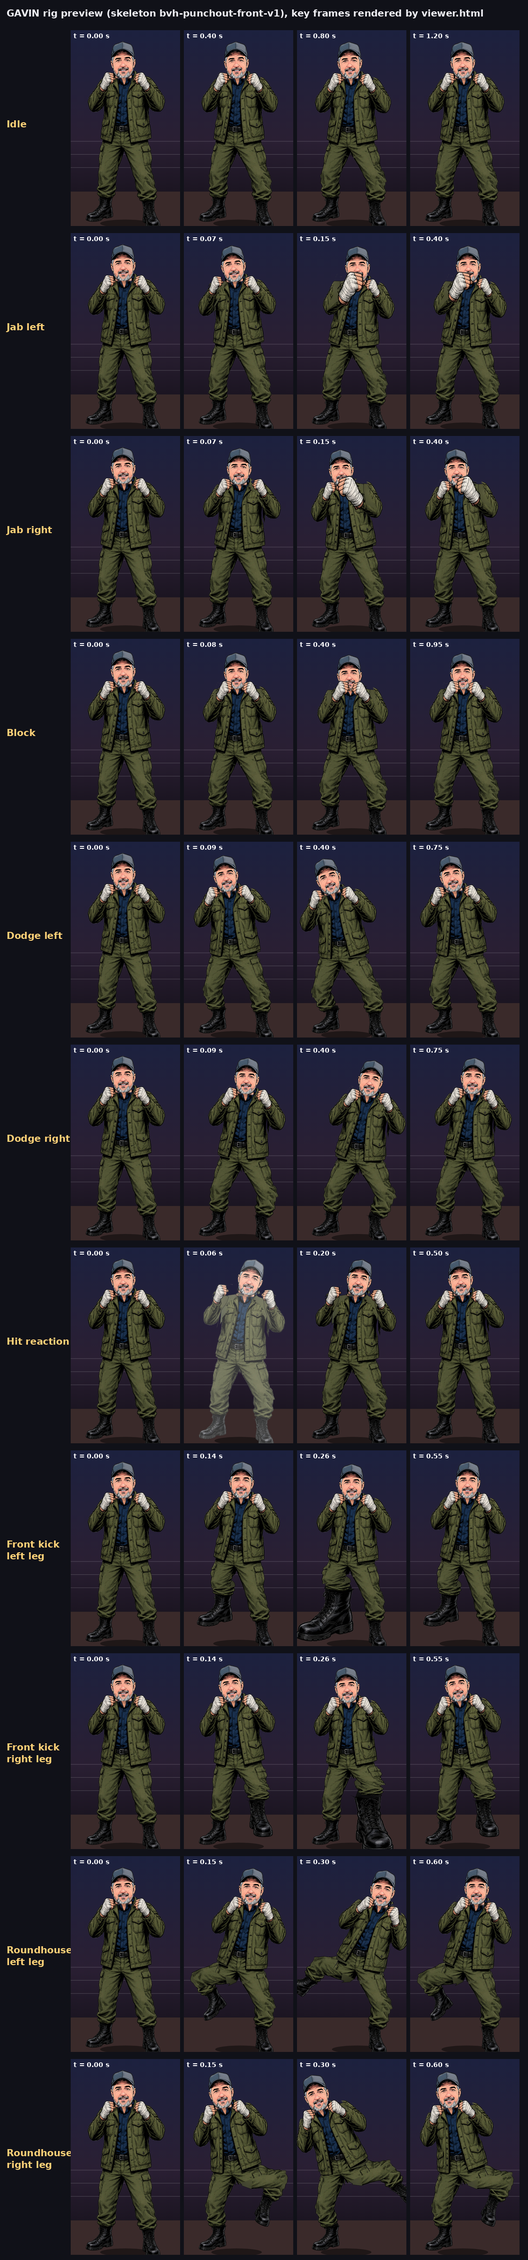
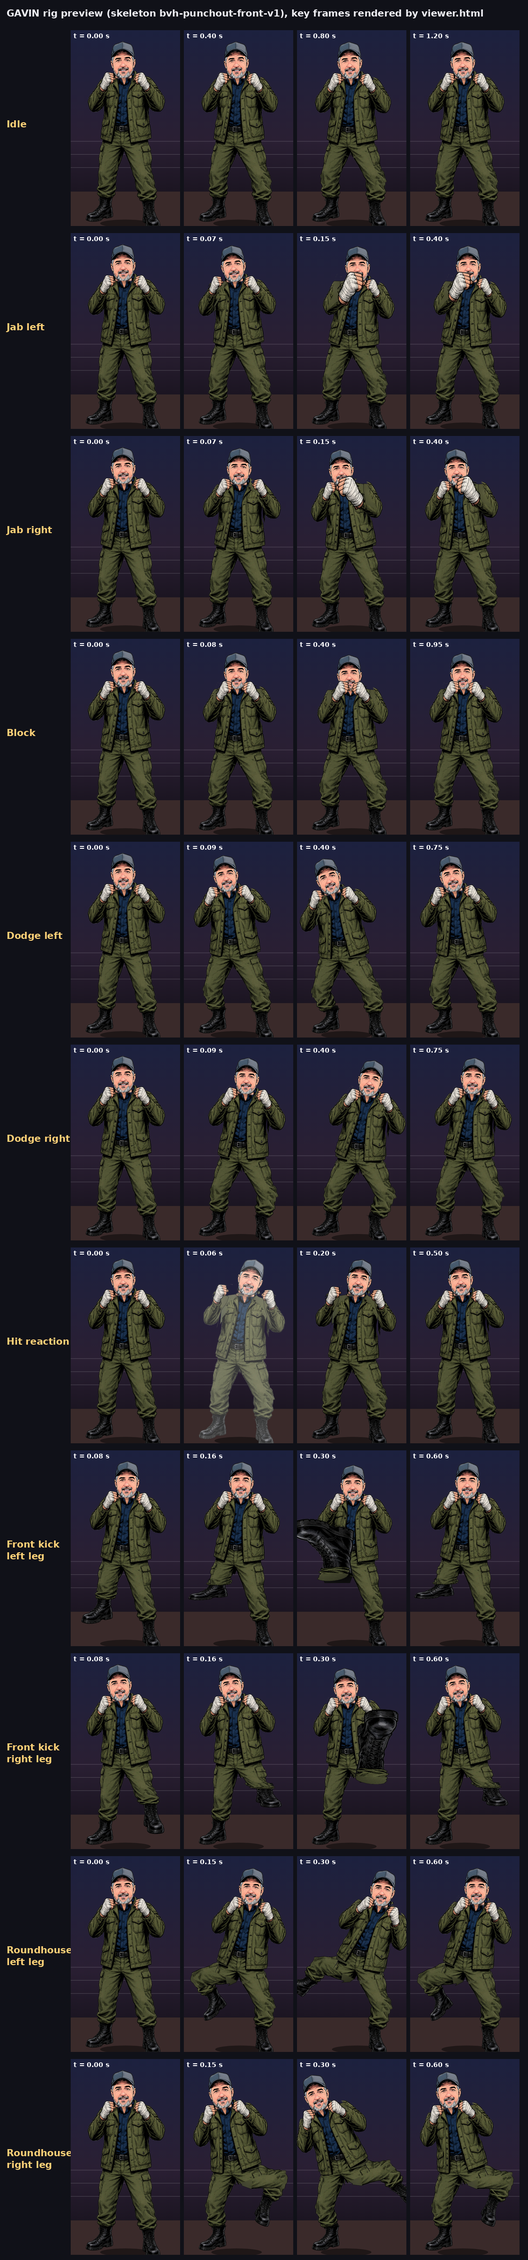
Rig: rework front kick (FK leg, knee lifts, boot rises to chest height toward camera)

diff --git a/fighter-art/rig/viewer.html b/fighter-art/rig/viewer.html
@@ -20,7 +20,7 @@
 </div>
 <!-- skeleton + animations + skins are embedded by tools/build_skin.py so the page also runs from file://.
      When served over http it re-reads skeleton.json / animations.json / <fighter>/skin.json if present. -->
-<script id="embedded" type="application/json">{"skeleton":{"name":"bvh-punchout-front-v1","about":"Generic 2D cut-out skeleton for front-facing (Punch-Out style) fighters. L/R mean SCREEN left/right (L is the fighter's own right hand). Pivots here are reference values in a 534x1265 reference frame (Gavin); each skin.json may override pivots for its own art. Rotations in degrees, positive is clockwise on screen. Bone transform = parent * translate(pivot - parentPivot + anim.xy) * rotate(anim.rot) * scale(anim.sx, anim.sy). Bones with worldRotation ignore their parent's rotation (boots stay flat). Any bone track may carry z (1 to 9): a part with z > 0 is drawn in a raised-leg layer above every other leg part and below the pelvis, ordered by z (front kick uses thigh 3, shin 2, boot 1). This stays correct for mirrored anims. Boot tracks may carry follow (0 to 1): 0 keeps the boot level, 1 turns it with the shin (roundhouse).","refSize":[534,1265],"groundY":1231,"bones":[{"name":"root","parent":null,"pivot":[268,640]},{"name":"pelvis","parent":"root","pivot":[268,640]},{"name":"torso","parent":"pelvis","pivot":[268,610]},{"name":"head","parent":"torso","pivot":[256,252]},{"name":"upperarm_L","parent":"torso","pivot":[118,272]},{"name":"forearm_L","parent":"upperarm_L","pivot":[62,440]},{"name":"fist_L","parent":"forearm_L","pivot":[125,326]},{"name":"upperarm_R","parent":"torso","pivot":[416,272]},{"name":"forearm_R","parent":"upperarm_R","pivot":[486,440]},{"name":"fist_R","parent":"forearm_R","pivot":[408,326]},{"name":"thigh_L","parent":"pelvis","pivot":[185,715]},{"name":"shin_L","parent":"thigh_L","pivot":[140,925]},{"name":"boot_L","parent":"shin_L","pivot":[130,1095],"worldRotation":true},{"name":"thigh_R","parent":"pelvis","pivot":[352,715]},{"name":"shin_R","parent":"thigh_R","pivot":[395,925]},{"name":"boot_R","parent":"shin_R","pivot":[428,1112],"worldRotation":true}],"ikTargets":{"foot_L":[130,1095],"foot_R":[428,1112]},"ik":[{"chain":["thigh_L","shin_L"],"target":"foot_L","end":"boot_L","note":"2-bone IK puts the ankle (boot pivot) on the target; thigh/shin sy tracks foreshorten the leg (lengths scale with them)"},{"chain":["thigh_R","shin_R"],"target":"foot_R","end":"boot_R"}],"drawOrder":["boot_L","boot_R","shin_L","shin_R","thigh_L","thigh_R","pelvis","torso","upperarm_L","upperarm_R","head","forearm_L","forearm_R","fist_L","fist_R"],"slots":{"head":"head incl. hat and beard, cut just under the beard","torso":"jacket and shirt, waist to collar, shoulders filled under the arms","pelvis":"belt to crotch, filled up under the jacket hem","upperarm_L":"shoulder to elbow sleeve","upperarm_R":"shoulder to elbow sleeve","forearm_L":"elbow to wrist sleeve (the forearm+fist limb is two layers so the fist can scale toward the camera on punches)","forearm_R":"elbow to wrist sleeve (the forearm+fist limb is two layers so the fist can scale toward the camera on punches)","thigh_L":"hip to knee","thigh_R":"hip to knee","shin_L":"knee to pant cuff","shin_R":"knee to pant cuff","fist_L":"fist incl. wraps/gloves and wrist, pivot at the wrist","fist_R":"fist incl. wraps/gloves and wrist, pivot at the wrist","boot_L":"boot, pivot at the ankle; worldRotation: stays level on the floor unless its own track rotates it","boot_R":"boot, pivot at the ankle; worldRotation: stays level on the floor unless its own track rotates it"}},"animations":{"about":"Shared keyframe animations for skeleton bvh-punchout-front-v1. Each key: t (s), rot (deg), x, y (reference px), sx, sy; missing values mean rest (0 or 1). Easing is smooth in-out between keys. root may also carry flash (0..1 white hit flash). IK target tracks (foot_L, foot_R) take x/y to slide a planted boot.","idle":{"duration":1.6,"loop":true,"tracks":{"root":[{"t":0},{"t":0.8,"y":7},{"t":1.6}],"torso":[{"t":0},{"t":0.8,"sy":1.012,"rot":0.6},{"t":1.6}],"head":[{"t":0},{"t":0.9,"rot":-1.4,"y":1.5},{"t":1.6}],"upperarm_L":[{"t":0},{"t":0.8,"rot":-1.5},{"t":1.6}],"upperarm_R":[{"t":0},{"t":0.8,"rot":1.5},{"t":1.6}],"forearm_L":[{"t":0},{"t":0.85,"rot":2.2,"y":2},{"t":1.6}],"forearm_R":[{"t":0},{"t":0.75,"rot":-2.2,"y":2},{"t":1.6}]}},"jab_L":{"duration":0.62,"loop":true,"tracks":{"root":[{"t":0},{"t":0.07,"x":-4,"y":3},{"t":0.15,"x":12,"y":6},{"t":0.28,"x":12,"y":6},{"t":0.62}],"torso":[{"t":0},{"t":0.07,"rot":-2},{"t":0.15,"rot":5},{"t":0.28,"rot":5},{"t":0.62}],"head":[{"t":0},{"t":0.15,"rot":-4,"x":10,"y":5},{"t":0.28,"rot":-4,"x":10,"y":5},{"t":0.62}],"upperarm_L":[{"t":0},{"t":0.07,"rot":3},{"t":0.15,"rot":-12},{"t":0.28,"rot":-12},{"t":0.62}],"forearm_L":[{"t":0},{"t":0.07,"rot":-5},{"t":0.15,"rot":34,"sx":0.85,"sy":0.85},{"t":0.28,"rot":34,"sx":0.85,"sy":0.85},{"t":0.62}],"fist_L":[{"t":0},{"t":0.07,"sx":0.95,"sy":0.95},{"t":0.15,"rot":-26,"sx":2.0,"sy":2.0,"x":18,"y":4},{"t":0.28,"rot":-26,"sx":2.0,"sy":2.0,"x":18,"y":4},{"t":0.62}],"upperarm_R":[{"t":0},{"t":0.15,"rot":3},{"t":0.28,"rot":3},{"t":0.62}],"forearm_R":[{"t":0},{"t":0.15,"rot":-4},{"t":0.28,"rot":-4},{"t":0.62}],"fist_R":[{"t":0},{"t":0.15,"sx":0.95,"sy":0.95},{"t":0.28,"sx":0.95,"sy":0.95},{"t":0.62}]}},"jab_R":{"duration":0.62,"loop":true,"mirrorOf":"jab_L"},"block":{"duration":1.1,"loop":true,"tracks":{"root":[{"t":0},{"t":0.15,"y":10},{"t":0.85,"y":10},{"t":1.1}],"torso":[{"t":0},{"t":0.15,"sy":0.985},{"t":0.85,"sy":0.985},{"t":1.1}],"head":[{"t":0},{"t":0.15,"y":12},{"t":0.85,"y":12},{"t":1.1}],"upperarm_L":[{"t":0},{"t":0.15,"rot":-9},{"t":0.85,"rot":-9},{"t":1.1}],"upperarm_R":[{"t":0},{"t":0.15,"rot":9},{"t":0.85,"rot":9},{"t":1.1}],"forearm_L":[{"t":0},{"t":0.15,"rot":13,"sx":1.12,"sy":1.12},{"t":0.5,"rot":12,"sx":1.12,"sy":1.12,"y":2},{"t":0.85,"rot":13,"sx":1.12,"sy":1.12},{"t":1.1}],"forearm_R":[{"t":0},{"t":0.15,"rot":-13,"sx":1.12,"sy":1.12},{"t":0.5,"rot":-12,"sx":1.12,"sy":1.12,"y":2},{"t":0.85,"rot":-13,"sx":1.12,"sy":1.12},{"t":1.1}]}},"dodge_L":{"duration":0.95,"loop":true,"tracks":{"root":[{"t":0},{"t":0.18,"x":-58,"y":22},{"t":0.55,"x":-58,"y":22},{"t":0.95}],"torso":[{"t":0},{"t":0.18,"rot":-9},{"t":0.55,"rot":-9},{"t":0.95}],"head":[{"t":0},{"t":0.2,"rot":-5},{"t":0.55,"rot":-5},{"t":0.95}],"upperarm_L":[{"t":0},{"t":0.18,"rot":4},{"t":0.55,"rot":4},{"t":0.95}],"upperarm_R":[{"t":0},{"t":0.18,"rot":3},{"t":0.55,"rot":3},{"t":0.95}],"forearm_L":[{"t":0},{"t":0.18,"rot":-3},{"t":0.55,"rot":-3},{"t":0.95}],"forearm_R":[{"t":0},{"t":0.18,"rot":-4},{"t":0.55,"rot":-4},{"t":0.95}]}},"dodge_R":{"duration":0.95,"loop":true,"mirrorOf":"dodge_L"},"hit":{"duration":0.85,"loop":true,"tracks":{"root":[{"t":0},{"t":0.06,"x":14,"y":5,"flash":0.22},{"t":0.2,"x":10,"y":6},{"t":0.5,"x":-2},{"t":0.85}],"torso":[{"t":0},{"t":0.06,"rot":6},{"t":0.2,"rot":4},{"t":0.5,"rot":-1},{"t":0.85}],"head":[{"t":0},{"t":0.06,"rot":11,"x":8,"y":-10},{"t":0.2,"rot":8,"x":6,"y":-6},{"t":0.5,"rot":-1.5},{"t":0.85}],"upperarm_L":[{"t":0},{"t":0.06,"rot":9},{"t":0.25,"rot":6},{"t":0.85}],"upperarm_R":[{"t":0},{"t":0.06,"rot":-5},{"t":0.25,"rot":-4},{"t":0.85}],"forearm_L":[{"t":0},{"t":0.06,"rot":-18},{"t":0.25,"rot":-12},{"t":0.55,"rot":2},{"t":0.85}],"forearm_R":[{"t":0},{"t":0.06,"rot":14},{"t":0.25,"rot":10},{"t":0.55,"rot":-2},{"t":0.85}]}},"kick_front_L":{"duration":0.85,"loop":true,"tracks":{"root":[{"t":0},{"t":0.14,"y":-4},{"t":0.26,"y":-2,"x":4},{"t":0.38,"y":-2,"x":4},{"t":0.55,"y":-4},{"t":0.85}],"pelvis":[{"t":0},{"t":0.14,"rot":3},{"t":0.26,"rot":4},{"t":0.38,"rot":4},{"t":0.55,"rot":3},{"t":0.85}],"torso":[{"t":0},{"t":0.14,"rot":1},{"t":0.26,"rot":-3,"sy":0.98},{"t":0.38,"rot":-3,"sy":0.98},{"t":0.55,"rot":1},{"t":0.85}],"head":[{"t":0},{"t":0.26,"y":5,"rot":1},{"t":0.38,"y":5,"rot":1},{"t":0.85}],"upperarm_L":[{"t":0},{"t":0.26,"rot":-3},{"t":0.38,"rot":-3},{"t":0.85}],"upperarm_R":[{"t":0},{"t":0.26,"rot":3},{"t":0.38,"rot":3},{"t":0.85}],"forearm_L":[{"t":0},{"t":0.26,"rot":3},{"t":0.38,"rot":3},{"t":0.85}],"forearm_R":[{"t":0},{"t":0.26,"rot":-3},{"t":0.38,"rot":-3},{"t":0.85}],"thigh_L":[{"t":0},{"t":0.06,"z":3},{"t":0.14,"sy":0.55,"z":3,"sx":1.1},{"t":0.26,"sy":0.42,"z":3,"sx":1.25},{"t":0.38,"sy":0.42,"z":3,"sx":1.25},{"t":0.55,"sy":0.55,"z":3,"sx":1.1},{"t":0.78,"z":3},{"t":0.85}],"shin_L":[{"t":0},{"t":0.06,"z":2},{"t":0.14,"sy":0.6,"sx":1.15,"z":2},{"t":0.26,"sy":0.55,"sx":1.3,"z":2},{"t":0.38,"sy":0.55,"sx":1.3,"z":2},{"t":0.55,"sy":0.6,"sx":1.15,"z":2},{"t":0.78,"z":2},{"t":0.85}],"boot_L":[{"t":0},{"t":0.06,"z":1},{"t":0.14,"sx":1.3,"sy":1.3,"y":30,"z":1},{"t":0.26,"sx":2.1,"sy":2.1,"y":70,"z":1},{"t":0.38,"sx":2.1,"sy":2.1,"y":70,"z":1},{"t":0.55,"sx":1.3,"sy":1.3,"y":30,"z":1},{"t":0.78,"z":1},{"t":0.85}],"foot_L":[{"t":0},{"t":0.14,"x":26,"y":-168},{"t":0.26,"x":34,"y":-200},{"t":0.38,"x":34,"y":-200},{"t":0.55,"x":26,"y":-168},{"t":0.85}]}},"kick_front_R":{"duration":0.85,"loop":true,"mirrorOf":"kick_front_L"},"kick_round_L":{"duration":0.95,"loop":true,"tracks":{"root":[{"t":0},{"t":0.15,"x":22},{"t":0.3,"x":62,"y":-6},{"t":0.45,"x":62,"y":-6},{"t":0.6,"x":22},{"t":0.95}],"pelvis":[{"t":0},{"t":0.15,"rot":6},{"t":0.3,"rot":12},{"t":0.45,"rot":12},{"t":0.6,"rot":6},{"t":0.95}],"torso":[{"t":0},{"t":0.15,"rot":4},{"t":0.3,"rot":9},{"t":0.45,"rot":9},{"t":0.6,"rot":4},{"t":0.95}],"head":[{"t":0},{"t":0.15,"rot":-3},{"t":0.3,"rot":-8},{"t":0.45,"rot":-8},{"t":0.95}],"upperarm_L":[{"t":0},{"t":0.3,"rot":-6},{"t":0.45,"rot":-6},{"t":0.95}],"upperarm_R":[{"t":0},{"t":0.3,"rot":4},{"t":0.45,"rot":4},{"t":0.95}],"forearm_L":[{"t":0},{"t":0.3,"rot":6},{"t":0.45,"rot":6},{"t":0.95}],"forearm_R":[{"t":0},{"t":0.3,"rot":-4},{"t":0.45,"rot":-4},{"t":0.95}],"boot_L":[{"t":0},{"t":0.15,"rot":10,"follow":1},{"t":0.3,"rot":15,"follow":1},{"t":0.45,"rot":15,"follow":1},{"t":0.6,"rot":10,"follow":1},{"t":0.95}],"foot_L":[{"t":0},{"t":0.15,"x":-30,"y":-220},{"t":0.3,"x":-165,"y":-318},{"t":0.45,"x":-165,"y":-318},{"t":0.6,"x":-30,"y":-220},{"t":0.95}],"thigh_L":[{"t":0},{"t":0.15,"sy":0.92},{"t":0.3,"sy":0.86},{"t":0.45,"sy":0.86},{"t":0.6,"sy":0.92},{"t":0.95}],"shin_L":[{"t":0},{"t":0.3,"sy":0.84},{"t":0.45,"sy":0.84},{"t":0.95}]}},"kick_round_R":{"duration":0.95,"loop":true,"mirrorOf":"kick_round_L"}},"skins":{"gavin":{"fighter":"gavin","skeleton":"bvh-punchout-front-v1","about":"Per-fighter skin. parts: image per bone, x/y = image top-left relative to the bone pivot (art px). pivots/ikTargets override the skeleton reference values for this art. scale = on-screen size multiplier vs the 662 px human reference (Tank would be about 1.17).","artSize":[534,1265],"scale":1.0,"groundY":1231,"pivots":{"root":[268,640],"pelvis":[268,640],"torso":[268,610],"head":[256,252],"upperarm_L":[118,272],"forearm_L":[62,440],"fist_L":[125,326],"upperarm_R":[416,272],"forearm_R":[486,440],"fist_R":[408,326],"thigh_L":[185,715],"shin_L":[140,925],"boot_L":[130,1095],"thigh_R":[352,715],"shin_R":[395,925],"boot_R":[428,1112]},"ikTargets":{"foot_L":[130,1095],"foot_R":[428,1112]},"parts":{"fist_L":{"image":"parts/fist_L.png","x":-34,"y":-122,"w":111,"h":137},"fist_R":{"image":"parts/fist_R.png","x":-87,"y":-122,"w":112,"h":137},"forearm_L":{"image":"parts/forearm_L.png","x":-28,"y":-146,"w":119,"h":179},"forearm_R":{"image":"parts/forearm_R.png","x":-112,"y":-146,"w":134,"h":179},"head":{"image":"parts/head.png","x":-124,"y":-252,"w":218,"h":259},"upperarm_L":{"image":"parts/upperarm_L.png","x":-105,"y":-66,"w":140,"h":273},"upperarm_R":{"image":"parts/upperarm_R.png","x":-33,"y":-65,"w":151,"h":296},"torso":{"image":"parts/torso.png","x":-169,"y":-404,"w":345,"h":483},"pelvis":{"image":"parts/pelvis.png","x":-173,"y":-81,"w":348,"h":214},"thigh_L":{"image":"parts/thigh_L.png","x":-103,"y":-87,"w":189,"h":345},"thigh_R":{"image":"parts/thigh_R.png","x":-85,"y":-87,"w":201,"h":347},"shin_L":{"image":"parts/shin_L.png","x":-68,"y":-68,"w":137,"h":202},"shin_R":{"image":"parts/shin_R.png","x":-70,"y":-72,"w":157,"h":234},"boot_L":{"image":"parts/boot_L.png","x":-130,"y":-70,"w":189,"h":190},"boot_R":{"image":"parts/boot_R.png","x":-66,"y":-63,"w":142,"h":216}}}}}</script>
+<script id="embedded" type="application/json">{"skeleton":{"name":"bvh-punchout-front-v1","about":"Generic 2D cut-out skeleton for front-facing (Punch-Out style) fighters. L/R mean SCREEN left/right (L is the fighter's own right hand). Pivots here are reference values in a 534x1265 reference frame (Gavin); each skin.json may override pivots for its own art. Rotations in degrees, positive is clockwise on screen. Bone transform = parent * translate(pivot - parentPivot + anim.xy) * rotate(anim.rot) * scale(anim.sx, anim.sy). Bones with worldRotation ignore their parent's rotation (boots stay flat). Any bone track may carry z (1 to 9): a part with z > 0 is drawn in a raised-leg layer above every other leg part and below the pelvis, ordered by z (front kick uses thigh 3, shin 2, boot 1). This stays correct for mirrored anims. Boot tracks may carry follow (0 to 1): 0 keeps the boot level, 1 turns it with the shin (roundhouse). z of 10 or more draws the part in front of the whole fighter (front kick shin and boot at the peak). A foot track with fk 1 switches that leg from IK to plain FK (front kick: thigh and shin sy foreshorten, a negative shin sy points the shin up at the camera).","refSize":[534,1265],"groundY":1231,"bones":[{"name":"root","parent":null,"pivot":[268,640]},{"name":"pelvis","parent":"root","pivot":[268,640]},{"name":"torso","parent":"pelvis","pivot":[268,610]},{"name":"head","parent":"torso","pivot":[256,252]},{"name":"upperarm_L","parent":"torso","pivot":[118,272]},{"name":"forearm_L","parent":"upperarm_L","pivot":[62,440]},{"name":"fist_L","parent":"forearm_L","pivot":[125,326]},{"name":"upperarm_R","parent":"torso","pivot":[416,272]},{"name":"forearm_R","parent":"upperarm_R","pivot":[486,440]},{"name":"fist_R","parent":"forearm_R","pivot":[408,326]},{"name":"thigh_L","parent":"pelvis","pivot":[185,715]},{"name":"shin_L","parent":"thigh_L","pivot":[140,925]},{"name":"boot_L","parent":"shin_L","pivot":[130,1095],"worldRotation":true},{"name":"thigh_R","parent":"pelvis","pivot":[352,715]},{"name":"shin_R","parent":"thigh_R","pivot":[395,925]},{"name":"boot_R","parent":"shin_R","pivot":[428,1112],"worldRotation":true}],"ikTargets":{"foot_L":[130,1095],"foot_R":[428,1112]},"ik":[{"chain":["thigh_L","shin_L"],"target":"foot_L","end":"boot_L","note":"2-bone IK puts the ankle (boot pivot) on the target; thigh/shin sy tracks foreshorten the leg (lengths scale with them)"},{"chain":["thigh_R","shin_R"],"target":"foot_R","end":"boot_R"}],"drawOrder":["boot_L","boot_R","shin_L","shin_R","thigh_L","thigh_R","pelvis","torso","upperarm_L","upperarm_R","head","forearm_L","forearm_R","fist_L","fist_R"],"slots":{"head":"head incl. hat and beard, cut just under the beard","torso":"jacket and shirt, waist to collar, shoulders filled under the arms","pelvis":"belt to crotch, filled up under the jacket hem","upperarm_L":"shoulder to elbow sleeve","upperarm_R":"shoulder to elbow sleeve","forearm_L":"elbow to wrist sleeve (the forearm+fist limb is two layers so the fist can scale toward the camera on punches)","forearm_R":"elbow to wrist sleeve (the forearm+fist limb is two layers so the fist can scale toward the camera on punches)","thigh_L":"hip to knee","thigh_R":"hip to knee","shin_L":"knee to pant cuff","shin_R":"knee to pant cuff","fist_L":"fist incl. wraps/gloves and wrist, pivot at the wrist","fist_R":"fist incl. wraps/gloves and wrist, pivot at the wrist","boot_L":"boot, pivot at the ankle; worldRotation: stays level on the floor unless its own track rotates it","boot_R":"boot, pivot at the ankle; worldRotation: stays level on the floor unless its own track rotates it"}},"animations":{"about":"Shared keyframe animations for skeleton bvh-punchout-front-v1. Each key: t (s), rot (deg), x, y (reference px), sx, sy; missing values mean rest (0 or 1). Easing is smooth in-out between keys. root may also carry flash (0..1 white hit flash). IK target tracks (foot_L, foot_R) take x/y to slide a planted boot.","idle":{"duration":1.6,"loop":true,"tracks":{"root":[{"t":0},{"t":0.8,"y":7},{"t":1.6}],"torso":[{"t":0},{"t":0.8,"sy":1.012,"rot":0.6},{"t":1.6}],"head":[{"t":0},{"t":0.9,"rot":-1.4,"y":1.5},{"t":1.6}],"upperarm_L":[{"t":0},{"t":0.8,"rot":-1.5},{"t":1.6}],"upperarm_R":[{"t":0},{"t":0.8,"rot":1.5},{"t":1.6}],"forearm_L":[{"t":0},{"t":0.85,"rot":2.2,"y":2},{"t":1.6}],"forearm_R":[{"t":0},{"t":0.75,"rot":-2.2,"y":2},{"t":1.6}]}},"jab_L":{"duration":0.62,"loop":true,"tracks":{"root":[{"t":0},{"t":0.07,"x":-4,"y":3},{"t":0.15,"x":12,"y":6},{"t":0.28,"x":12,"y":6},{"t":0.62}],"torso":[{"t":0},{"t":0.07,"rot":-2},{"t":0.15,"rot":5},{"t":0.28,"rot":5},{"t":0.62}],"head":[{"t":0},{"t":0.15,"rot":-4,"x":10,"y":5},{"t":0.28,"rot":-4,"x":10,"y":5},{"t":0.62}],"upperarm_L":[{"t":0},{"t":0.07,"rot":3},{"t":0.15,"rot":-12},{"t":0.28,"rot":-12},{"t":0.62}],"forearm_L":[{"t":0},{"t":0.07,"rot":-5},{"t":0.15,"rot":34,"sx":0.85,"sy":0.85},{"t":0.28,"rot":34,"sx":0.85,"sy":0.85},{"t":0.62}],"fist_L":[{"t":0},{"t":0.07,"sx":0.95,"sy":0.95},{"t":0.15,"rot":-26,"sx":2.0,"sy":2.0,"x":18,"y":4},{"t":0.28,"rot":-26,"sx":2.0,"sy":2.0,"x":18,"y":4},{"t":0.62}],"upperarm_R":[{"t":0},{"t":0.15,"rot":3},{"t":0.28,"rot":3},{"t":0.62}],"forearm_R":[{"t":0},{"t":0.15,"rot":-4},{"t":0.28,"rot":-4},{"t":0.62}],"fist_R":[{"t":0},{"t":0.15,"sx":0.95,"sy":0.95},{"t":0.28,"sx":0.95,"sy":0.95},{"t":0.62}]}},"jab_R":{"duration":0.62,"loop":true,"mirrorOf":"jab_L"},"block":{"duration":1.1,"loop":true,"tracks":{"root":[{"t":0},{"t":0.15,"y":10},{"t":0.85,"y":10},{"t":1.1}],"torso":[{"t":0},{"t":0.15,"sy":0.985},{"t":0.85,"sy":0.985},{"t":1.1}],"head":[{"t":0},{"t":0.15,"y":12},{"t":0.85,"y":12},{"t":1.1}],"upperarm_L":[{"t":0},{"t":0.15,"rot":-9},{"t":0.85,"rot":-9},{"t":1.1}],"upperarm_R":[{"t":0},{"t":0.15,"rot":9},{"t":0.85,"rot":9},{"t":1.1}],"forearm_L":[{"t":0},{"t":0.15,"rot":13,"sx":1.12,"sy":1.12},{"t":0.5,"rot":12,"sx":1.12,"sy":1.12,"y":2},{"t":0.85,"rot":13,"sx":1.12,"sy":1.12},{"t":1.1}],"forearm_R":[{"t":0},{"t":0.15,"rot":-13,"sx":1.12,"sy":1.12},{"t":0.5,"rot":-12,"sx":1.12,"sy":1.12,"y":2},{"t":0.85,"rot":-13,"sx":1.12,"sy":1.12},{"t":1.1}]}},"dodge_L":{"duration":0.95,"loop":true,"tracks":{"root":[{"t":0},{"t":0.18,"x":-58,"y":22},{"t":0.55,"x":-58,"y":22},{"t":0.95}],"torso":[{"t":0},{"t":0.18,"rot":-9},{"t":0.55,"rot":-9},{"t":0.95}],"head":[{"t":0},{"t":0.2,"rot":-5},{"t":0.55,"rot":-5},{"t":0.95}],"upperarm_L":[{"t":0},{"t":0.18,"rot":4},{"t":0.55,"rot":4},{"t":0.95}],"upperarm_R":[{"t":0},{"t":0.18,"rot":3},{"t":0.55,"rot":3},{"t":0.95}],"forearm_L":[{"t":0},{"t":0.18,"rot":-3},{"t":0.55,"rot":-3},{"t":0.95}],"forearm_R":[{"t":0},{"t":0.18,"rot":-4},{"t":0.55,"rot":-4},{"t":0.95}]}},"dodge_R":{"duration":0.95,"loop":true,"mirrorOf":"dodge_L"},"hit":{"duration":0.85,"loop":true,"tracks":{"root":[{"t":0},{"t":0.06,"x":14,"y":5,"flash":0.22},{"t":0.2,"x":10,"y":6},{"t":0.5,"x":-2},{"t":0.85}],"torso":[{"t":0},{"t":0.06,"rot":6},{"t":0.2,"rot":4},{"t":0.5,"rot":-1},{"t":0.85}],"head":[{"t":0},{"t":0.06,"rot":11,"x":8,"y":-10},{"t":0.2,"rot":8,"x":6,"y":-6},{"t":0.5,"rot":-1.5},{"t":0.85}],"upperarm_L":[{"t":0},{"t":0.06,"rot":9},{"t":0.25,"rot":6},{"t":0.85}],"upperarm_R":[{"t":0},{"t":0.06,"rot":-5},{"t":0.25,"rot":-4},{"t":0.85}],"forearm_L":[{"t":0},{"t":0.06,"rot":-18},{"t":0.25,"rot":-12},{"t":0.55,"rot":2},{"t":0.85}],"forearm_R":[{"t":0},{"t":0.06,"rot":14},{"t":0.25,"rot":10},{"t":0.55,"rot":-2},{"t":0.85}]}},"kick_front_L":{"duration":0.85,"loop":true,"tracks":{"root":[{"t":0},{"t":0.12,"y":-6},{"t":0.3,"y":-4,"x":4},{"t":0.42,"y":-4,"x":4},{"t":0.66,"y":-6},{"t":0.85}],"pelvis":[{"t":0},{"t":0.12,"rot":3},{"t":0.3,"rot":4},{"t":0.42,"rot":4},{"t":0.66,"rot":3},{"t":0.85}],"torso":[{"t":0},{"t":0.12,"rot":1},{"t":0.3,"rot":-2,"sy":0.97},{"t":0.42,"rot":-2,"sy":0.97},{"t":0.66,"rot":1},{"t":0.85}],"head":[{"t":0},{"t":0.3,"y":8,"rot":1},{"t":0.42,"y":8,"rot":1},{"t":0.85}],"upperarm_L":[{"t":0},{"t":0.3,"rot":-3},{"t":0.42,"rot":-3},{"t":0.85}],"upperarm_R":[{"t":0},{"t":0.3,"rot":3},{"t":0.42,"rot":3},{"t":0.85}],"forearm_L":[{"t":0},{"t":0.3,"rot":3},{"t":0.42,"rot":3},{"t":0.85}],"forearm_R":[{"t":0},{"t":0.3,"rot":-3},{"t":0.42,"rot":-3},{"t":0.85}],"foot_L":[{"t":0,"fk":1},{"t":0.85,"fk":1}],"thigh_L":[{"t":0},{"t":0.12,"rot":-6,"sy":0.55,"sx":1.08,"z":3},{"t":0.2,"rot":-8,"sy":0.36,"sx":1.15,"z":3},{"t":0.3,"rot":-8,"sy":0.3,"sx":1.2,"z":3},{"t":0.42,"rot":-8,"sy":0.3,"sx":1.2,"z":3},{"t":0.55,"rot":-8,"sy":0.36,"sx":1.15,"z":3},{"t":0.66,"rot":-6,"sy":0.55,"sx":1.08,"z":3},{"t":0.85}],"shin_L":[{"t":0},{"t":0.12,"rot":6,"sy":0.92,"sx":1.1,"z":2},{"t":0.19,"rot":8,"sy":0.2,"sx":1.24,"z":2},{"t":0.2,"rot":8,"sy":0.12,"sx":1.25,"z":13},{"t":0.3,"rot":8,"sy":-1.6,"sx":1.35,"z":13},{"t":0.42,"rot":8,"sy":-1.6,"sx":1.35,"z":13},{"t":0.55,"rot":8,"sy":0.12,"sx":1.25,"z":13},{"t":0.56,"rot":8,"sy":0.2,"sx":1.24,"z":2},{"t":0.66,"rot":6,"sy":0.92,"sx":1.1,"z":2},{"t":0.85}],"boot_L":[{"t":0},{"t":0.12,"sx":1.2,"sy":1.2,"z":1},{"t":0.19,"sx":1.6,"sy":0.5,"z":1},{"t":0.2,"sx":1.65,"sy":0.4,"z":12},{"t":0.3,"sx":2.3,"sy":-2.3,"y":-30,"z":12},{"t":0.42,"sx":2.3,"sy":-2.3,"y":-30,"z":12},{"t":0.55,"sx":1.65,"sy":0.4,"z":12},{"t":0.56,"sx":1.6,"sy":0.5,"z":1},{"t":0.66,"sx":1.2,"sy":1.2,"z":1},{"t":0.85}]}},"kick_front_R":{"duration":0.85,"loop":true,"mirrorOf":"kick_front_L"},"kick_round_L":{"duration":0.95,"loop":true,"tracks":{"root":[{"t":0},{"t":0.15,"x":22},{"t":0.3,"x":62,"y":-6},{"t":0.45,"x":62,"y":-6},{"t":0.6,"x":22},{"t":0.95}],"pelvis":[{"t":0},{"t":0.15,"rot":6},{"t":0.3,"rot":12},{"t":0.45,"rot":12},{"t":0.6,"rot":6},{"t":0.95}],"torso":[{"t":0},{"t":0.15,"rot":4},{"t":0.3,"rot":9},{"t":0.45,"rot":9},{"t":0.6,"rot":4},{"t":0.95}],"head":[{"t":0},{"t":0.15,"rot":-3},{"t":0.3,"rot":-8},{"t":0.45,"rot":-8},{"t":0.95}],"upperarm_L":[{"t":0},{"t":0.3,"rot":-6},{"t":0.45,"rot":-6},{"t":0.95}],"upperarm_R":[{"t":0},{"t":0.3,"rot":4},{"t":0.45,"rot":4},{"t":0.95}],"forearm_L":[{"t":0},{"t":0.3,"rot":6},{"t":0.45,"rot":6},{"t":0.95}],"forearm_R":[{"t":0},{"t":0.3,"rot":-4},{"t":0.45,"rot":-4},{"t":0.95}],"boot_L":[{"t":0},{"t":0.15,"rot":10,"follow":1},{"t":0.3,"rot":15,"follow":1},{"t":0.45,"rot":15,"follow":1},{"t":0.6,"rot":10,"follow":1},{"t":0.95}],"foot_L":[{"t":0},{"t":0.15,"x":-30,"y":-220},{"t":0.3,"x":-165,"y":-318},{"t":0.45,"x":-165,"y":-318},{"t":0.6,"x":-30,"y":-220},{"t":0.95}],"thigh_L":[{"t":0},{"t":0.15,"sy":0.92},{"t":0.3,"sy":0.86},{"t":0.45,"sy":0.86},{"t":0.6,"sy":0.92},{"t":0.95}],"shin_L":[{"t":0},{"t":0.3,"sy":0.84},{"t":0.45,"sy":0.84},{"t":0.95}]}},"kick_round_R":{"duration":0.95,"loop":true,"mirrorOf":"kick_round_L"}},"skins":{"gavin":{"fighter":"gavin","skeleton":"bvh-punchout-front-v1","about":"Per-fighter skin. parts: image per bone, x/y = image top-left relative to the bone pivot (art px). pivots/ikTargets override the skeleton reference values for this art. scale = on-screen size multiplier vs the 662 px human reference (Tank would be about 1.17).","artSize":[534,1265],"scale":1.0,"groundY":1231,"pivots":{"root":[268,640],"pelvis":[268,640],"torso":[268,610],"head":[256,252],"upperarm_L":[118,272],"forearm_L":[62,440],"fist_L":[125,326],"upperarm_R":[416,272],"forearm_R":[486,440],"fist_R":[408,326],"thigh_L":[185,715],"shin_L":[140,925],"boot_L":[130,1095],"thigh_R":[352,715],"shin_R":[395,925],"boot_R":[428,1112]},"ikTargets":{"foot_L":[130,1095],"foot_R":[428,1112]},"parts":{"fist_L":{"image":"parts/fist_L.png","x":-34,"y":-122,"w":111,"h":137},"fist_R":{"image":"parts/fist_R.png","x":-87,"y":-122,"w":112,"h":137},"forearm_L":{"image":"parts/forearm_L.png","x":-28,"y":-146,"w":119,"h":179},"forearm_R":{"image":"parts/forearm_R.png","x":-112,"y":-146,"w":134,"h":179},"head":{"image":"parts/head.png","x":-124,"y":-252,"w":218,"h":259},"upperarm_L":{"image":"parts/upperarm_L.png","x":-105,"y":-66,"w":140,"h":273},"upperarm_R":{"image":"parts/upperarm_R.png","x":-33,"y":-65,"w":151,"h":296},"torso":{"image":"parts/torso.png","x":-169,"y":-404,"w":345,"h":483},"pelvis":{"image":"parts/pelvis.png","x":-173,"y":-81,"w":348,"h":214},"thigh_L":{"image":"parts/thigh_L.png","x":-103,"y":-87,"w":189,"h":345},"thigh_R":{"image":"parts/thigh_R.png","x":-85,"y":-87,"w":201,"h":347},"shin_L":{"image":"parts/shin_L.png","x":-68,"y":-68,"w":137,"h":202},"shin_R":{"image":"parts/shin_R.png","x":-70,"y":-72,"w":157,"h":234},"boot_L":{"image":"parts/boot_L.png","x":-130,"y":-70,"w":189,"h":190},"boot_R":{"image":"parts/boot_R.png","x":-66,"y":-63,"w":142,"h":216}}}}}</script>
 <script>
 'use strict';
 const EMB = JSON.parse(document.getElementById('embedded').textContent || '{}');
@@ -56,7 +56,7 @@ function prepAnims(A) {
   for (const [n, a] of Object.entries(A)) if (a && a.mirrorOf) out[n] = {...mirrorAnim(out[a.mirrorOf]), duration: a.duration, loop: a.loop};
   return out;
 }
-const DEF = {rot: 0, x: 0, y: 0, sx: 1, sy: 1, flash: 0, z: 0, follow: 0};
+const DEF = {rot: 0, x: 0, y: 0, sx: 1, sy: 1, flash: 0, z: 0, follow: 0, fk: 0};
 function sample(keys, t) {
   const o = {...DEF};
   if (!keys || !keys.length) return o;
@@ -87,6 +87,11 @@ function pose(animName, t) {
     const Hw = ap(par, hip[0] - pv[0], hip[1] - pv[1]);
     const L1 = Math.hypot(knee[0] - hip[0], knee[1] - hip[1]) * cu.sy, L2 = Math.hypot(tgt[0] - knee[0], tgt[1] - knee[1]) * cl.sy;
     const tk = sample(A.tracks[ik.target], tt), tg = [tgt[0] + tk.x, tgt[1] + tk.y];
+    if (tk.fk > 0.5) {  // fk 1 on a foot track: leg follows its thigh/shin tracks (no IK), boot sits at the shin's ankle point
+      const Fa = ap(W[lb], tgt[0] - knee[0], tgt[1] - knee[1]);
+      if (ik.end) { const ce = ch[ik.end]; W[ik.end] = mul(mul(T(Fa[0] + ce.x, Fa[1] + ce.y), R(ce.rot * D2R)), S(ce.sx, ce.sy)); }
+      continue;
+    }
     let dx = tg[0] - Hw[0], dy = tg[1] - Hw[1], d = Math.hypot(dx, dy);
     d = Math.min(Math.max(d, Math.abs(L1 - L2) + 1e-3), L1 + L2 - 1e-3);
     const base = Math.atan2(dy, dx), a = Math.acos((L1 * L1 + d * d - L2 * L2) / (2 * L1 * d));
@@ -128,7 +133,7 @@ function globalM() {
 function render(animName, t) {
   const {W, flash, Z} = pose(animName, t), G = globalM();
   const PELV = SK.drawOrder.indexOf('pelvis');  // z > 0: part joins the raised-leg layer just under the pelvis, ordered by z
-  const order = SK.drawOrder.map((n, i) => [n, Z[n] > 0.05 ? PELV - 1 + Z[n] / 10 : i]).sort((p, q) => p[1] - q[1]).map(p => p[0]);
+  const order = SK.drawOrder.map((n, i) => [n, Z[n] >= 10 ? 100 + Z[n] : Z[n] > 0.05 ? PELV - 1 + Z[n] / 10 : i]).sort((p, q) => p[1] - q[1]).map(p => p[0]);
   drawBG(ctx);
   // floor shadow
   const sh = ap(G, SKIN.artSize[0] / 2 + (W.root[4] - SKIN.pivots.root[0]) * 0.6, SKIN.groundY);

diff --git a/fighter-art/rig/tools/make_preview.py b/fighter-art/rig/tools/make_preview.py
@@ -8,7 +8,7 @@ KEYS = [('idle', 'Idle', [0, 0.4, 0.8, 1.2]), ('jab_L', 'Jab left', [0, 0.07, 0.
         ('jab_R', 'Jab right', [0, 0.07, 0.15, 0.4]), ('block', 'Block', [0, 0.08, 0.4, 0.95]),
         ('dodge_L', 'Dodge left', [0, 0.09, 0.4, 0.75]), ('dodge_R', 'Dodge right', [0, 0.09, 0.4, 0.75]),
         ('hit', 'Hit reaction', [0, 0.06, 0.2, 0.5]),
-        ('kick_front_L', 'Front kick\nleft leg', [0, 0.14, 0.26, 0.55]), ('kick_front_R', 'Front kick\nright leg', [0, 0.14, 0.26, 0.55]),
+        ('kick_front_L', 'Front kick\nleft leg', [0.08, 0.16, 0.3, 0.6]), ('kick_front_R', 'Front kick\nright leg', [0.08, 0.16, 0.3, 0.6]),
         ('kick_round_L', 'Roundhouse\nleft leg', [0, 0.15, 0.3, 0.6]), ('kick_round_R', 'Roundhouse\nright leg', [0, 0.15, 0.3, 0.6])]
 specs = [f'{a}:{t}' for a, _, ts in KEYS for t in ts]
 subprocess.run([sys.executable, os.path.join(HERE, 'render_frames.py'), FR] + specs, check=True)

diff --git a/fighter-art/NOTES.md b/fighter-art/NOTES.md
@@ -63,5 +63,5 @@
 - rig/gavin/parts/: 15 transparent PNGs cut from gavin3d/fighter25d/gavin_upright_full.png (original untouched). The forearm+fist limb is two layers (forearm sleeve + fist) so the fist can grow toward the camera on a jab; a single piece could not do that without stretching the sleeve. Hidden areas are filled (shoulders under the fists, pants and belt under the jacket hem, neck under the beard, sleeves under the fists). Rest pose recomposes to the original (about 0.3 percent of pixels differ, all on anti-aliased edges).
 - Tools: rig/tools/cut_gavin.py (cut + fill), build_skin.py (skin.json + embed JSON into viewer), render_frames.py (headless Chrome via Playwright), make_preview.py (rig/gavin/preview_sheet.png).
 - Known flaws: filled areas (shoulder tops behind the fists, pants under the jacket) are smoother and less detailed than the inked art and show briefly on jabs, hits and dodges; tiny olive specks remain on the edge of the fists.
-- Kicks (added Nov 2 2026): kick_front_L/R (knee lifts, thigh and shin foreshorten, boot grows to 2.1x toward the camera, support leg planted by IK, arms stay in guard) and kick_round_L/R (pelvis tilts up, torso and head lean away, kicking leg swings out to the screen side, boot turns with the shin). _R versions are mirrors. Shin and boot are now separate parts: the shin ends at the pant cuff, the boot has its shaft filled under the cuff and is pivoted at the ankle (= IK foot target). Boots stay level by default (fixes the old dodge boot tilt); boot tracks can set follow 1 to turn with the shin. New track channels: z (raised-leg layer under the pelvis, mirror safe) and follow. Knees are round joints (thigh bottom cut to a disc around the knee pivot, shin top filled as a disc) and thighs have a filled hip cap under the pelvis.
-- Kick flaws: the shin top and hip caps are filled areas and read a little flat when the knee bends hard (roundhouse chamber); a small flat olive tab shows at the crotch at roundhouse peak; the front kick reads as the boot coming at the camera, but the sole is never shown (no sole art); the right roundhouse boot touches the right edge of the 540 px viewer canvas at full extension (framing only); IK knees bend outward for a few frames as the front kick chambers.
+- Kicks (added Nov 2 2026): kick_front_L/R (reworked: the kicking leg runs on FK via fk 1 on its foot track, so the knee never bends outward; the knee lifts with the thigh foreshortened to 0.3, the shin flips through sy 0 to -1.6 so it points up at the camera, and the boot flips sole-up and grows to 2.3x at chest/shoulder height in front of the body; slight lean back, support leg planted, arms in guard) and kick_round_L/R (pelvis tilts up, torso and head lean away, kicking leg swings out to the screen side, boot turns with the shin). _R versions are mirrors. Shin and boot are now separate parts: the shin ends at the pant cuff, the boot has its shaft filled under the cuff and is pivoted at the ankle (= IK foot target). Boots stay level by default (fixes the old dodge boot tilt); boot tracks can set follow 1 to turn with the shin. New track channels: z (raised-leg layer under the pelvis, mirror safe) and follow. Knees are round joints (thigh bottom cut to a disc around the knee pivot, shin top filled as a disc) and thighs have a filled hip cap under the pelvis.
+- Kick flaws: the shin top and hip caps are filled areas and read a little flat when the knee bends hard (roundhouse chamber); a small flat olive tab shows at the crotch at roundhouse peak; the front kick reads as the boot coming at the camera, but the sole is never shown (no sole art); the right roundhouse boot touches the right edge of the 540 px viewer canvas at full extension (framing only); front kick: around t 0.2 to 0.25 the boot is a thin squashed sliver while it flips toward the camera, the flipped boot shows the boot upside down (sole up) rather than real sole art, and the lower shin is mostly hidden behind the boot at the peak.
